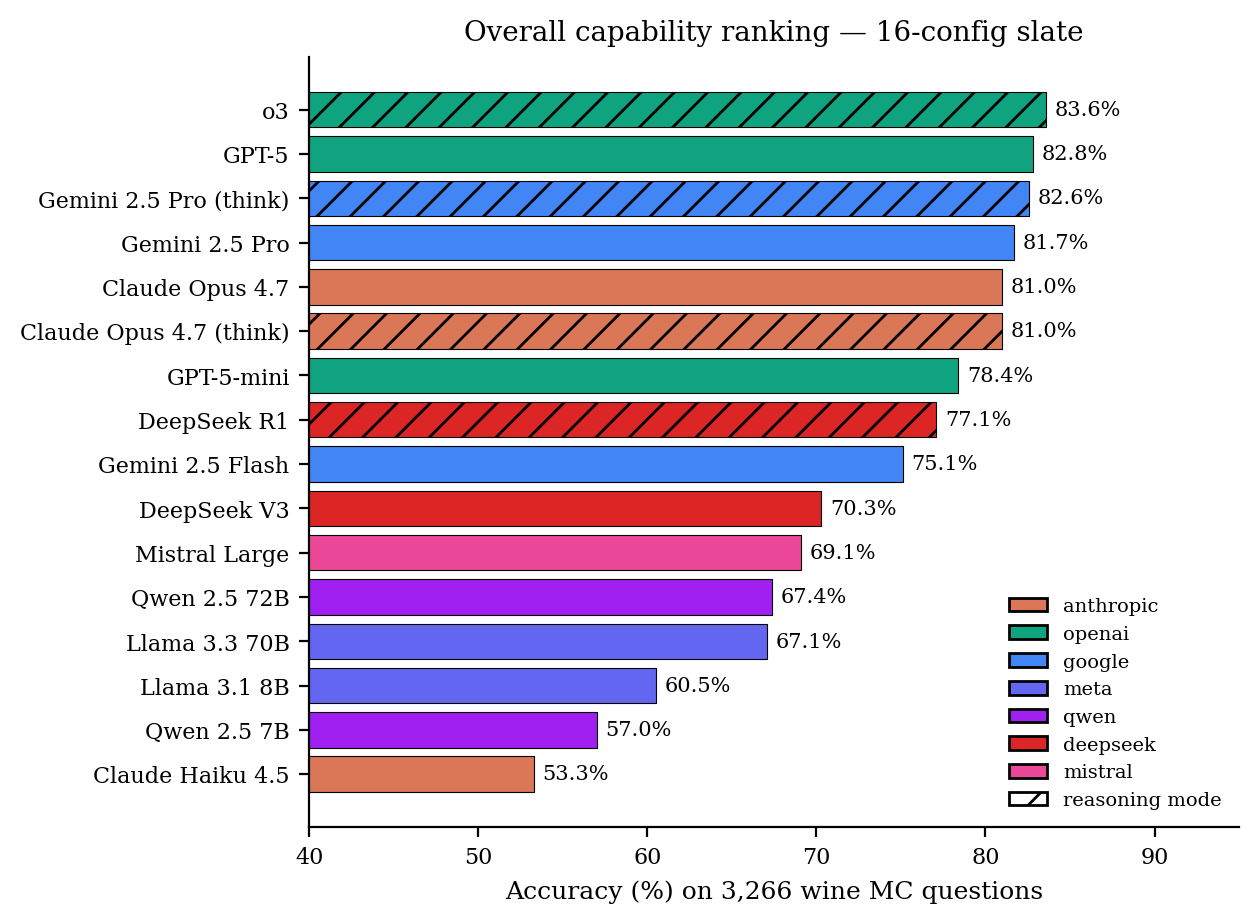
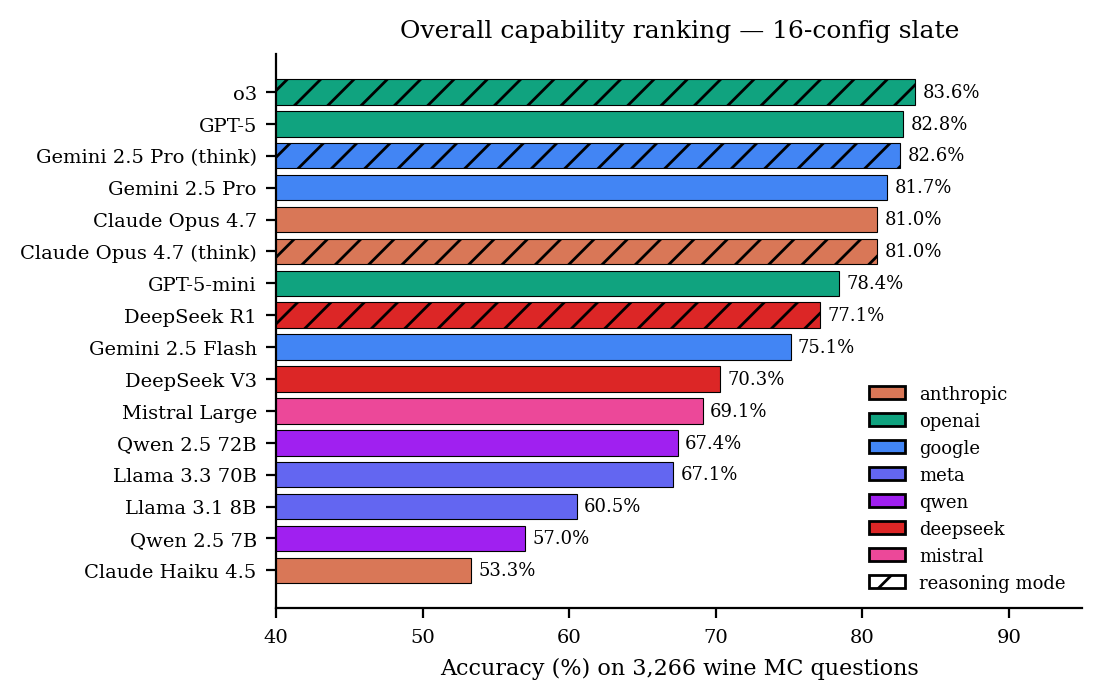
paper: shrink Table 3 and Figure 2 (leaderboard) without losing readability
Table 3 (audit agents):
- \footnotesize -> \scriptsize
- \tabcolsep 6pt -> 4pt
- \arraystretch 1.0 -> 0.95
- Function column 0.46 -> 0.50 \linewidth so rows wrap less

Figure 2 (leaderboard):
- figsize (6.0, 5.0) -> (5.2, 3.6) (~25% smaller area)
- in-bar percent label fontsize 7.5 -> 6.5
- y-tick (model name) fontsize set to 7
- x-tick / xlabel / title sized down to 7 / 8 / 9
- legend fontsize 7 -> 6.5
- LaTeX width 0.86 -> 0.72 \linewidth

Both are still clearly readable at print scale (verified by 100 dpi
render). Frees enough vertical room on p7 and p8 that Section 5.2
fits on p7 alongside the leaderboard, and 5.4 + Figure 4 fit on p8
alongside 5.3 + Figure 3. Total PDF and content-body counts
unchanged but much better packing density on the evaluation block.

Changed region(s): [[0.0309, 0.0901, 0.9873, 0.9914], [0.3702, 0.0, 0.8639, 0.0601]]

diff --git a/scripts/figures/generate_figures.py b/scripts/figures/generate_figures.py
@@ -326,25 +326,26 @@ def fig_leaderboard():
     colors = [FAMILY_COLORS.get(f, "#888") for f in families]
     hatch = ["//" if r != "standard" else "" for r in reasoning]
 
-    fig, ax = plt.subplots(figsize=(6.0, 5.0))
+    fig, ax = plt.subplots(figsize=(5.2, 3.6))
     y = np.arange(len(labels))
     bars = ax.barh(y, accs, color=colors, edgecolor="black", linewidth=0.4)
     for b, h in zip(bars, hatch):
         b.set_hatch(h)
     for i, a in enumerate(accs):
-        ax.text(a + 0.5, i, f"{a:.1f}%", va="center", fontsize=7.5)
+        ax.text(a + 0.5, i, f"{a:.1f}%", va="center", fontsize=6.5)
     ax.set_yticks(y)
-    ax.set_yticklabels(labels)
+    ax.set_yticklabels(labels, fontsize=7)
     ax.invert_yaxis()
     ax.set_xlim(40, 95)
-    ax.set_xlabel("Accuracy (%) on 3,266 wine MC questions")
-    ax.set_title("Overall capability ranking — 16-config slate")
+    ax.tick_params(axis="x", labelsize=7)
+    ax.set_xlabel("Accuracy (%) on 3,266 wine MC questions", fontsize=8)
+    ax.set_title("Overall capability ranking — 16-config slate", fontsize=9)
 
     # legend
     fams = sorted(set(families), key=lambda f: list(FAMILY_COLORS).index(f) if f in FAMILY_COLORS else 99)
     handles = [Patch(facecolor=FAMILY_COLORS.get(f, "#888"), edgecolor="black", label=f) for f in fams]
     handles.append(Patch(facecolor="white", edgecolor="black", hatch="//", label="reasoning mode"))
-    ax.legend(handles=handles, loc="lower right", frameon=False, fontsize=7)
+    ax.legend(handles=handles, loc="lower right", frameon=False, fontsize=6.5)
     save(fig, "fig_leaderboard")
 
 

diff --git a/paper/sections/04_quality_audit.tex b/paper/sections/04_quality_audit.tex
@@ -23,8 +23,10 @@ the four teams to the drop / relabel / keep verdict.
   \caption{The 14 audit agents across four teams. \textsc{always}:
     run on every question. \textsc{esc}: escalation-gated.}
   \label{tab:agents}
-  \footnotesize
-  \begin{tabular}{lllp{0.46\linewidth}}
+  \scriptsize
+  \setlength{\tabcolsep}{4pt}
+  \renewcommand{\arraystretch}{0.95}
+  \begin{tabular}{lllp{0.50\linewidth}}
     \toprule
     Team & Agent & Run & Function \\
     \midrule

diff --git a/paper/sections/05_evaluation.tex b/paper/sections/05_evaluation.tex
@@ -17,7 +17,7 @@ the evaluation around five questions, one per subsection.
 
 \begin{figure}[h]
   \centering
-  \includegraphics[width=0.86\linewidth]{figures/fig_leaderboard.pdf}
+  \includegraphics[width=0.72\linewidth]{figures/fig_leaderboard.pdf}
   \caption{Overall accuracy on the 3{,}266-question corpus across 16
     configurations. Reasoning-mode configs are hatched.}
   \label{fig:leaderboard}